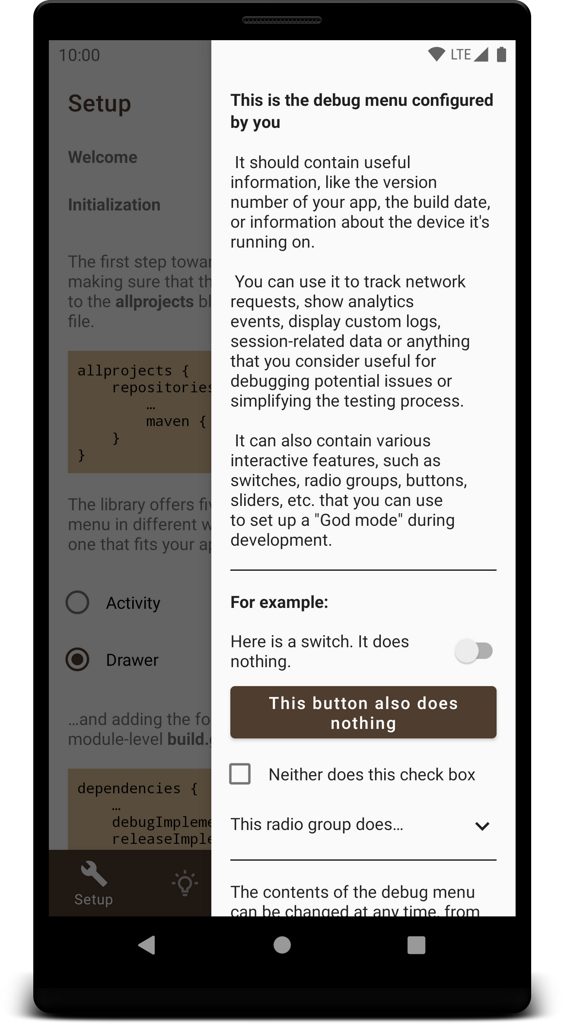
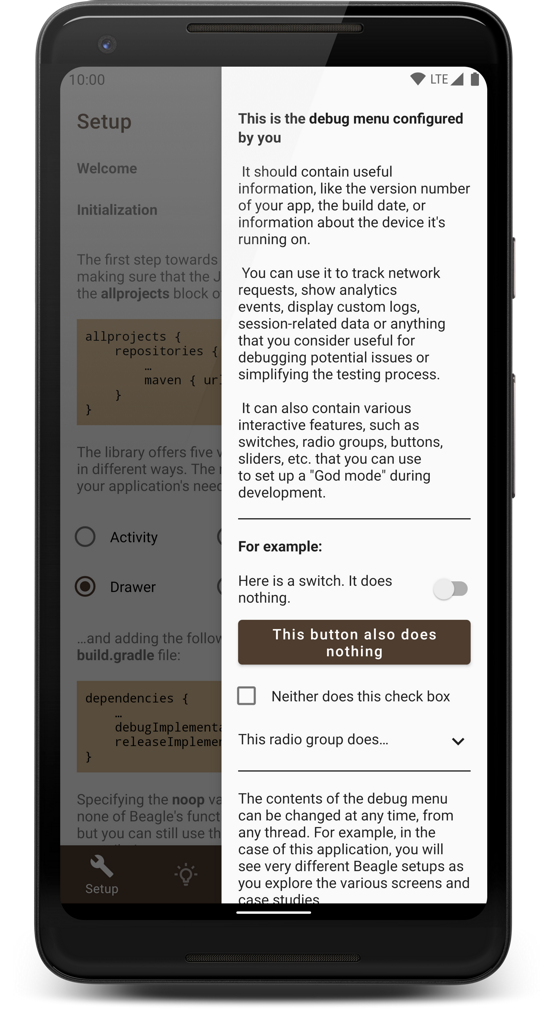
Update screenshots and the migration guide.

diff --git a/metadata/MIGRATION_GUIDE.md b/metadata/MIGRATION_GUIDE.md
@@ -19,6 +19,8 @@ You should eventually! But a few reasons to postpone doing so:
 ## How should I update?
 Due to the existence of the legacy implementation, most classes have been moved to a different package and / or renamed in the new version. The simplest way to set up Beagle v2 is to follow the steps written for newcomers in the [main readme](https://github.com/pandulapeter/beagle/blob/master/README.md).
 
+Pay extra attention to the Gradle dependencies as they are not the same as they used to! This decision was made so that the old version can co-exist with the new one.
+
 ## That's not a proper migration guide...
 You're right! Here are the big changes you should be aware of if you were familiar with the old API:
 * You should update the way the library is added in your **build.gradle** file, as mentioned in the readme. The dependencies are a bit different!
